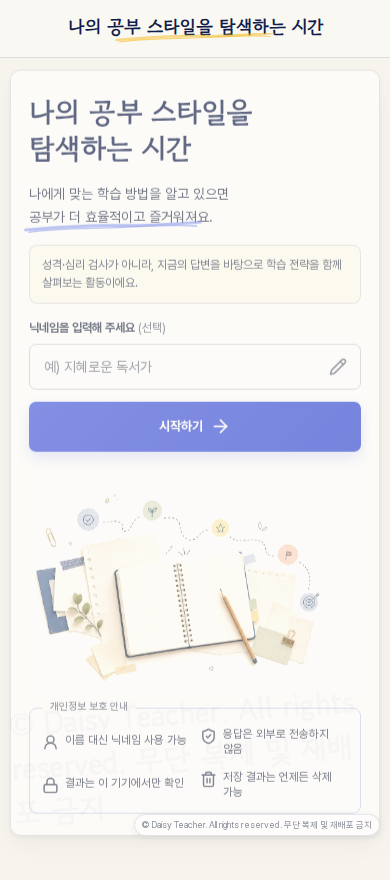
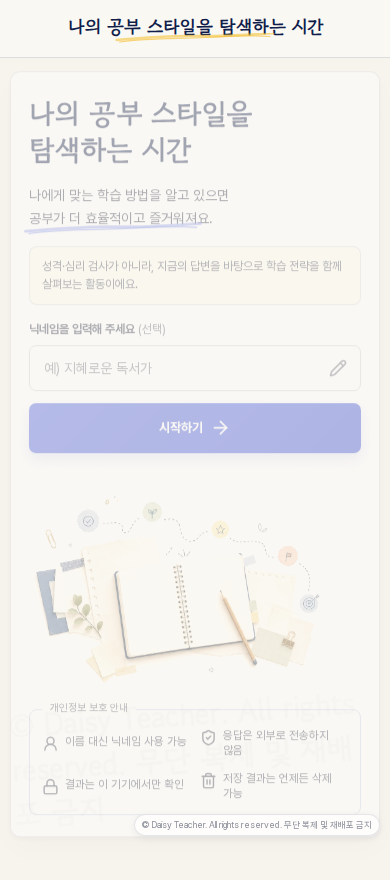
Fix access deployment and admin modal polish

diff --git a/src/screens/AdminAccessModal.tsx b/src/screens/AdminAccessModal.tsx
@@ -20,6 +20,21 @@ function formatDateTime(value: Date): string {
   }).format(value);
 }
 
+const focusableSelector = [
+  "button:not([disabled])",
+  "textarea:not([disabled])",
+  "input:not([disabled])",
+  "select:not([disabled])",
+  "a[href]",
+  '[tabindex]:not([tabindex="-1"])',
+].join(",");
+
+function getFocusableElements(container: HTMLElement): HTMLElement[] {
+  return Array.from(container.querySelectorAll<HTMLElement>(focusableSelector)).filter(
+    (element) => element.offsetParent !== null || element === document.activeElement,
+  );
+}
+
 export function AdminAccessModal({
   open,
   verifierDigest,
@@ -46,6 +61,15 @@ export function AdminAccessModal({
     setError(null);
     const previousActiveElement =
       document.activeElement instanceof HTMLElement ? document.activeElement : null;
+    const inertTargets = Array.from(
+      document.querySelectorAll<HTMLElement>(".wideApp, .wideOnlyNotice"),
+    );
+
+    inertTargets.forEach((target) => {
+      target.setAttribute("inert", "");
+      target.setAttribute("aria-hidden", "true");
+    });
+
     const frame = window.requestAnimationFrame(() => {
       masterInputRef.current?.focus({ preventScroll: true });
     });
@@ -53,6 +77,30 @@ export function AdminAccessModal({
     const onKeyDown = (event: KeyboardEvent) => {
       if (event.key === "Escape") {
         onClose();
+        return;
+      }
+
+      if (event.key !== "Tab" || !dialogRef.current) return;
+
+      const focusableElements = getFocusableElements(dialogRef.current);
+      if (focusableElements.length === 0) {
+        event.preventDefault();
+        return;
+      }
+
+      const firstElement = focusableElements[0];
+      const lastElement = focusableElements[focusableElements.length - 1];
+      if (!firstElement || !lastElement) {
+        event.preventDefault();
+        return;
+      }
+
+      if (event.shiftKey && document.activeElement === firstElement) {
+        event.preventDefault();
+        lastElement.focus();
+      } else if (!event.shiftKey && document.activeElement === lastElement) {
+        event.preventDefault();
+        firstElement.focus();
       }
     };
 
@@ -60,6 +108,10 @@ export function AdminAccessModal({
     return () => {
       window.cancelAnimationFrame(frame);
       document.removeEventListener("keydown", onKeyDown);
+      inertTargets.forEach((target) => {
+        target.removeAttribute("inert");
+        target.removeAttribute("aria-hidden");
+      });
       if (previousActiveElement?.isConnected) {
         previousActiveElement.focus({ preventScroll: true });
       }

diff --git a/tests/e2e/access.spec.ts b/tests/e2e/access.spec.ts
@@ -36,11 +36,23 @@ async function unlockWithGeneratedCode(page: Page): Promise<void> {
   ).toBeVisible();
 }
 
+async function activeElementIsInsideDialog(page: Page): Promise<boolean> {
+  return page.evaluate(() => {
+    const dialog = document.querySelector('[role="dialog"][aria-modal="true"]');
+    return dialog instanceof HTMLElement && dialog.contains(document.activeElement);
+  });
+}
+
 test("requires a valid access code before the start screen", async ({ page }) => {
   await page.goto("/");
 
   await expect(page.getByRole("heading", { name: "수업 접속 코드" })).toBeVisible();
-  await expect(page.getByLabel("수업 접속 코드")).toBeVisible();
+  const accessInput = page.getByLabel("수업 접속 코드");
+  await expect(accessInput).toBeVisible();
+  await expect(accessInput).toHaveAttribute(
+    "placeholder",
+    /DAISY-A1-\d{6}-\d{3}-[A-Z2-9]{10}/,
+  );
   await expect(
     page.getByTestId("screen-surface").getByRole("heading", {
       name: /나의 공부 스타일을/,
@@ -50,6 +62,23 @@ test("requires a valid access code before the start screen", async ({ page }) =>
   await page.getByLabel("수업 접속 코드").fill("WRONG-CODE");
   await page.getByRole("button", { name: "입장하기" }).click();
   await expect(page.getByRole("alert")).toContainText("유효하지 않은 접속 코드");
+});
+
+test("admin modal traps focus while open", async ({ page }) => {
+  await page.goto("/");
+  await openAdminModal(page);
+  await expect(page.getByLabel("마스터코드")).toBeFocused();
+  await expect(page.locator(".wideApp")).toHaveAttribute("inert", "");
+
+  for (let index = 0; index < 5; index += 1) {
+    await page.keyboard.press("Tab");
+    await expect.poll(() => activeElementIsInsideDialog(page)).toBe(true);
+  }
+
+  await page.keyboard.down("Shift");
+  await page.keyboard.press("Tab");
+  await page.keyboard.up("Shift");
+  await expect.poll(() => activeElementIsInsideDialog(page)).toBe(true);
 });
 
 test("hidden admin generator creates a code that unlocks the app", async ({ page }) => {

diff --git a/tests/unit/deployWorkflow.test.ts b/tests/unit/deployWorkflow.test.ts
@@ -1,0 +1,11 @@
+import { readFileSync } from "node:fs";
+import { describe, expect, it } from "vitest";
+
+describe("deploy pages workflow", () => {
+  it("passes the MASTER_CODE secret to the production build step", () => {
+    const workflow = readFileSync(".github/workflows/deploy-pages.yml", "utf8");
+
+    expect(workflow).toContain("MASTER_CODE: ${{ secrets.MASTER_CODE }}");
+    expect(workflow).toContain("run: npm run build");
+  });
+});

diff --git a/src/screens/AccessGateScreen.tsx b/src/screens/AccessGateScreen.tsx
@@ -43,7 +43,7 @@ export function AccessGateScreen({
                 className="input"
                 value={code}
                 onChange={(event) => onCodeChange(event.target.value)}
-                placeholder="예) DAISY-A1-260623-007-ABCD2345"
+                placeholder="예) DAISY-A1-260623-007-ABCD2345EF"
                 autoComplete="off"
                 inputMode="text"
               />

diff --git a/FINAL_REPORT.md b/FINAL_REPORT.md
@@ -82,10 +82,10 @@ Not pixel-perfect. The reference is a scaled montage, and the product-required s
 |---|---|
 | `npm run typecheck` | Pass |
 | `npm run lint` | Pass |
-| `npm run test` | Pass, 8 files / 44 tests |
+| `npm run test` | Pass, 9 files / 46 tests |
 | `npm run logic:distribution` | Pass, all 8 types within 3-30% |
 | `PLAYWRIGHT_BASE_URL=http://127.0.0.1:4174 npm run test:visual` | Pass, 11 Chromium tests including access fixture, 1280×800 captures, wide/landscape smoke, 390×844 portrait fixture captures, and 360×740 detail/prompt captures |
-| `PLAYWRIGHT_BASE_URL=http://127.0.0.1:4174 npm run test:e2e` | Pass, 24 Chromium tests including access gate/admin code generation, 390×844 and 360×740 portrait rendering, 359×740 guidance, 390×844 and 360×740 core flows, scroll reset, touch target, and delete privacy checks |
+| `PLAYWRIGHT_BASE_URL=http://127.0.0.1:4174 npm run test:e2e` | Pass, 25 Chromium tests including access gate/admin code generation, admin modal focus trap, 390×844 and 360×740 portrait rendering, 359×740 guidance, 390×844 and 360×740 core flows, scroll reset, touch target, and delete privacy checks |
 | `MASTER_CODE=development-master-code VITE_ENABLE_FIXTURES=true npm run build` | Pass |
 | `npm run test:e2e:webkit` | Blocked: host missing WebKit system libraries |
 